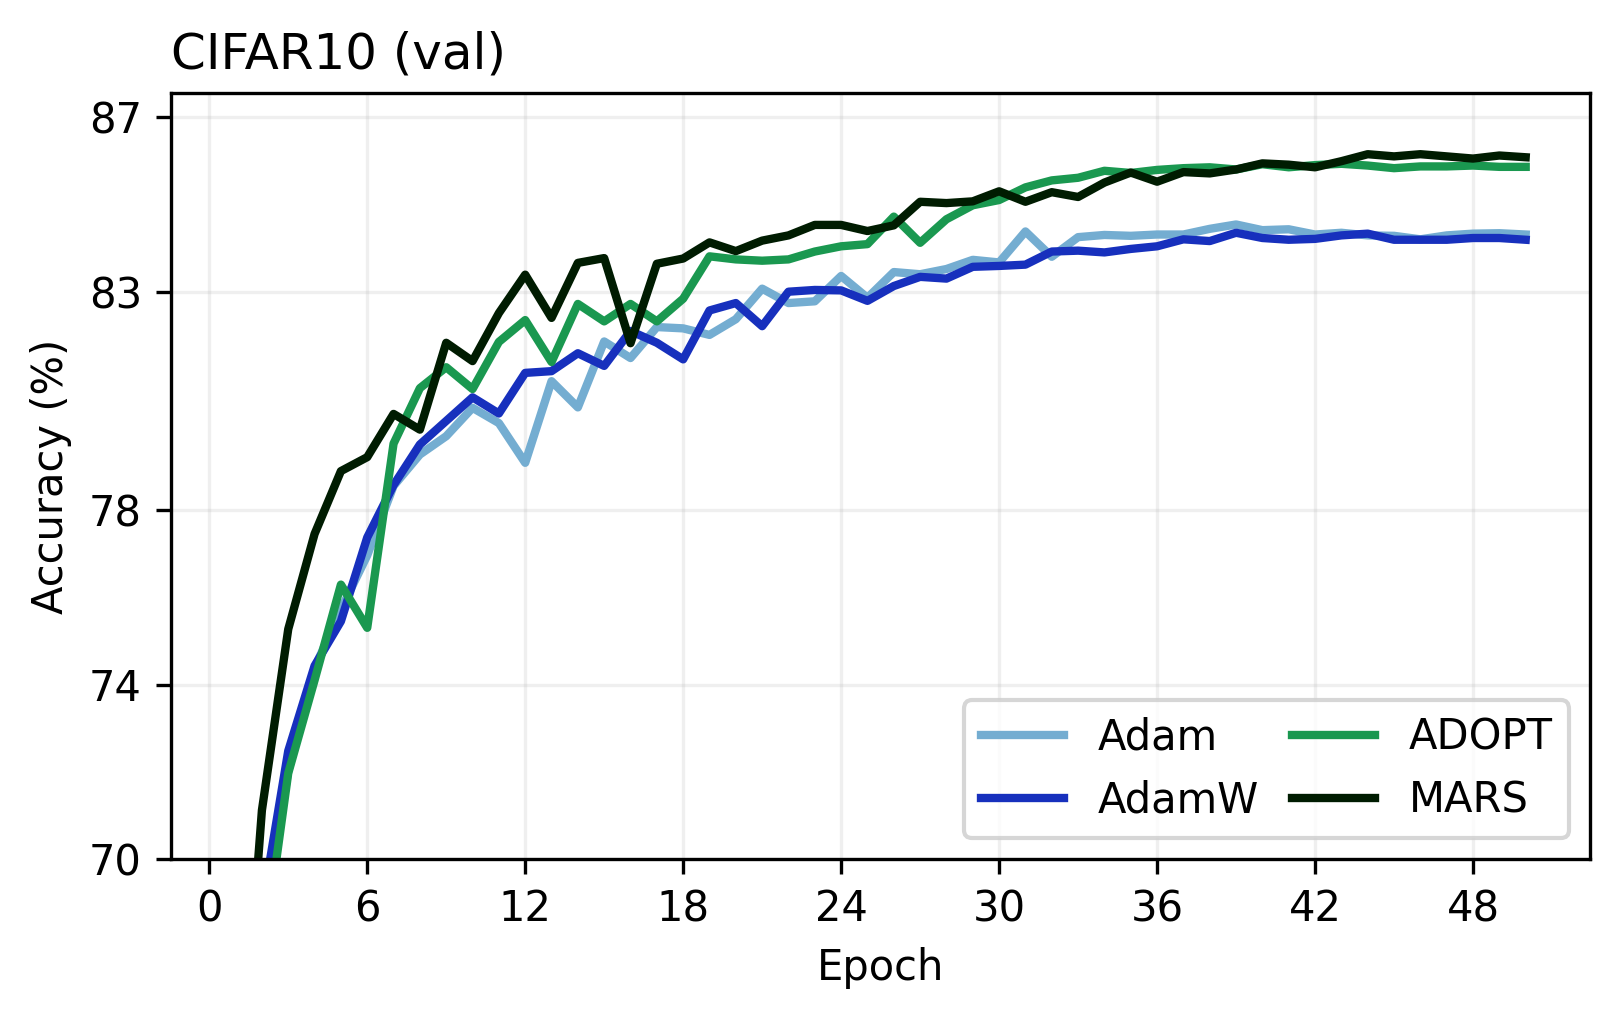
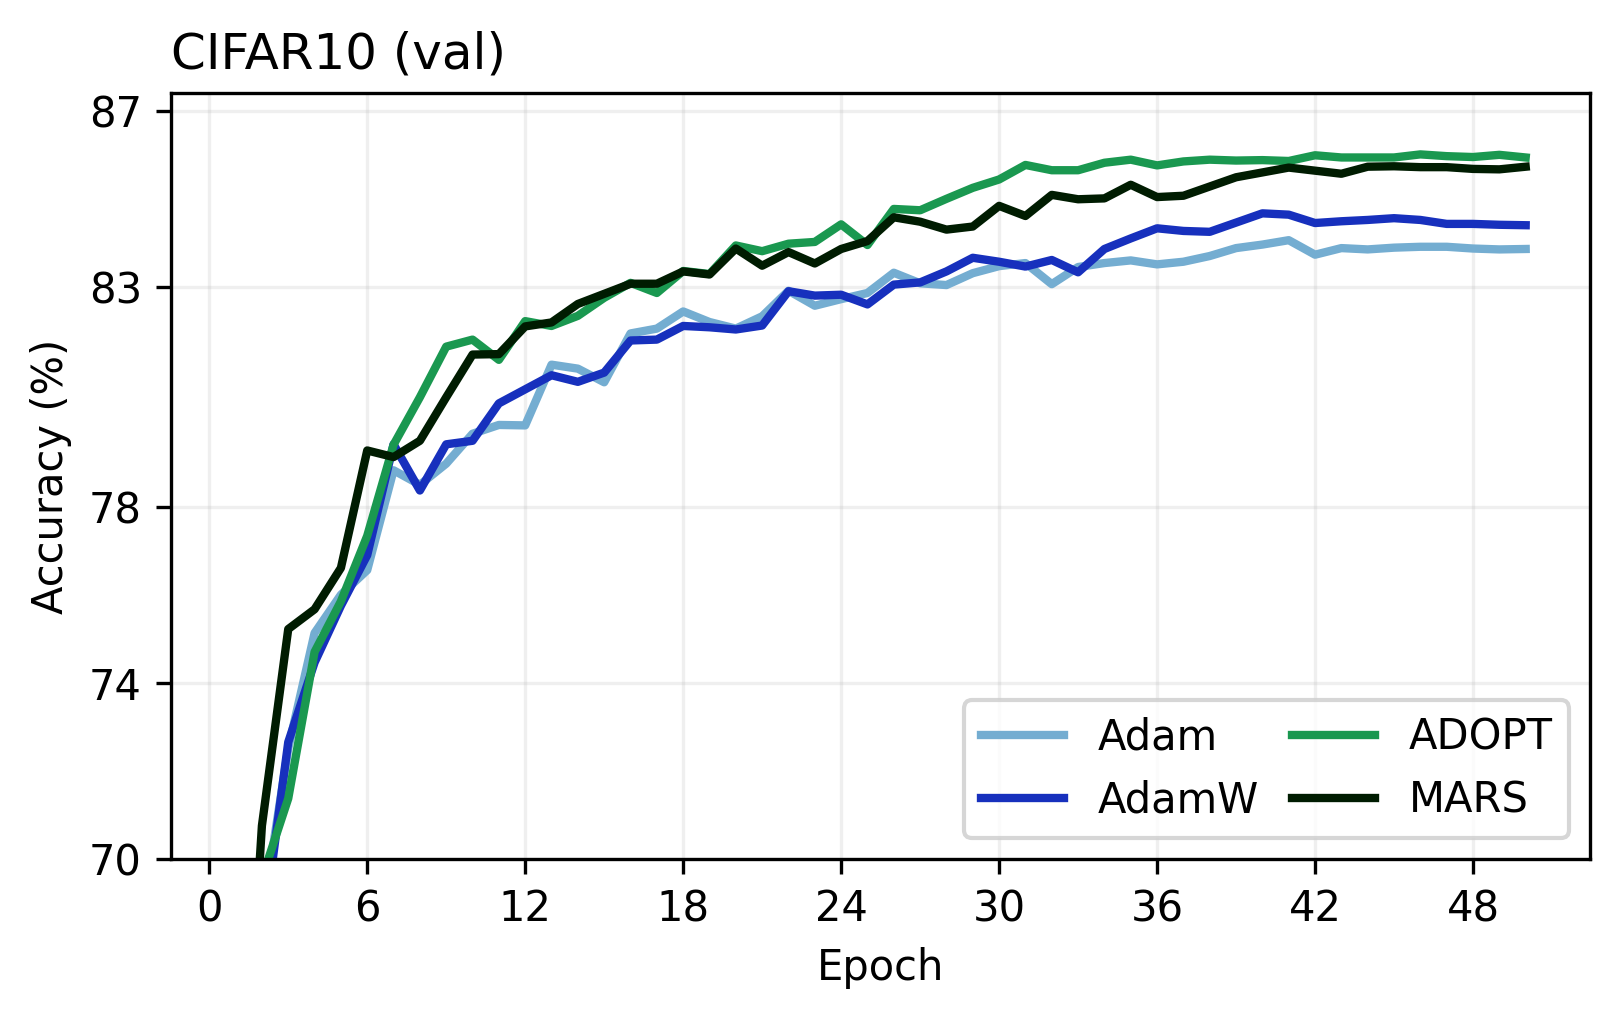
examples: comparison w/ mars optimizing 1d

diff --git a/examples/networks/compare.py b/examples/networks/compare.py
@@ -59,8 +59,9 @@ def get_optimizers(args):
             {
                 "learning_rate": get_cosine_schedule(3e-3, 1e-6, n_warmup, decay_steps),
                 "weight_decay": weight_decay,
-                "learning_rate_1d": get_cosine_schedule(3e-3, 1e-6, n_warmup, decay_steps),
-                "weight_decay_1d": weight_decay,
+                "optimize_1d": True,
+                # "learning_rate_1d": get_cosine_schedule(3e-3, 1e-6, n_warmup, decay_steps),
+                # "weight_decay_1d": weight_decay,
             },
         ),
     ]
